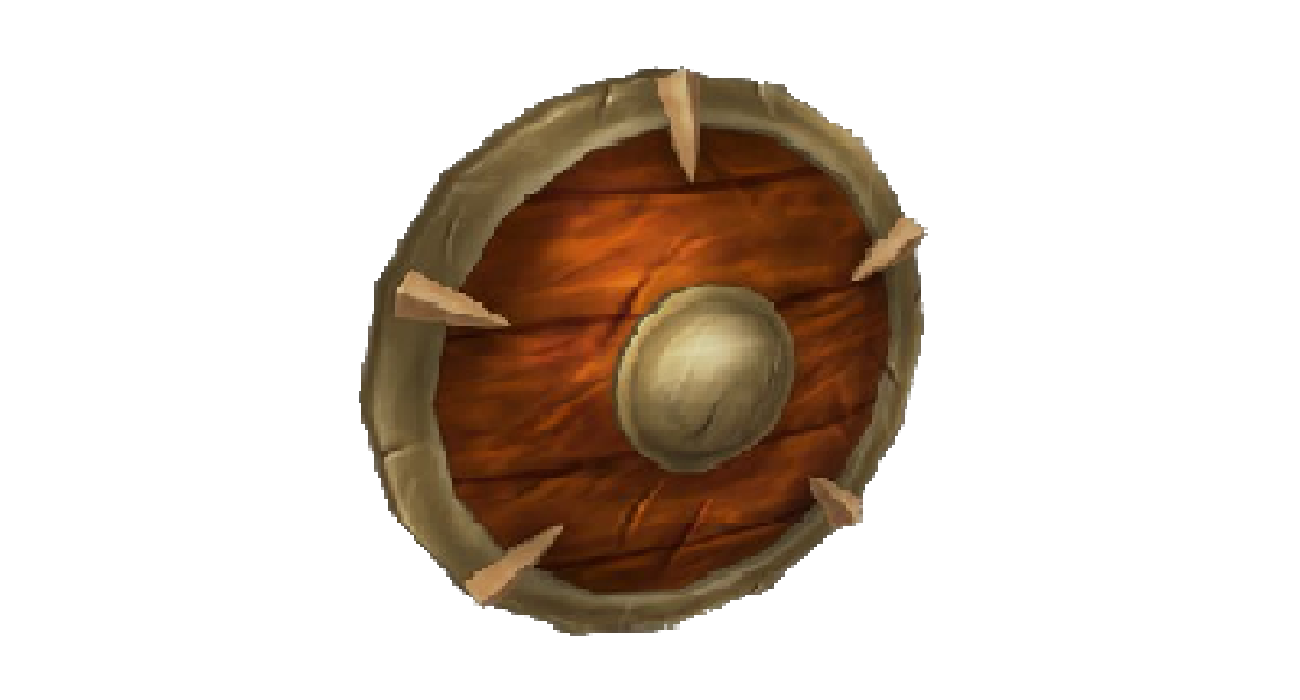
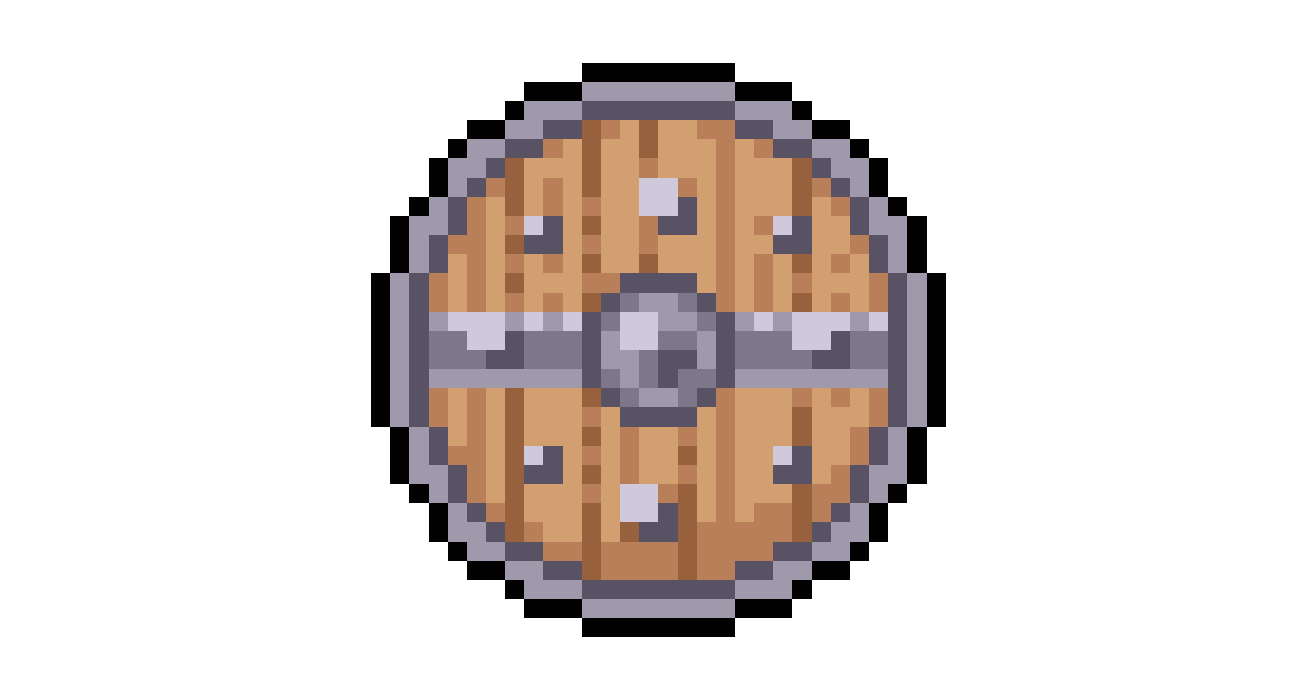
add images for item types

Changed region(s): [[0.2769, 0.09, 0.7385, 0.93]]

diff --git a/src/render.js b/src/render.js
@@ -38,6 +38,7 @@ context.fillRect(0, 2020, width, height);
 // create card
 
 async function create(params) {
+	const name = `${s(params.type)}`.toCap();
 	const desc = `${s(params.type)} ${s(params.size_type)}`.toCap();
 
 	await image("background", [0, 0], [width, height]);
@@ -45,7 +46,7 @@ async function create(params) {
 	context.fillRect(0, 2020, width, height);
 
 	// draw card
-	text(params.name || desc, [100, 200], 70, "start", "#000", "bold");
+	text(params.name || name, [100, 200], 70, "start", "#000", "bold");
 	text(desc, [100, 300], 50, "start", "#555", "italic");
 
 	text(s("size"), [1220, 150], 40, "center", "#555", "bold");
@@ -55,9 +56,10 @@ async function create(params) {
 	const dimension = +(Math.round(params.dimension + "e+1") + "e-1");
 	text(dimension + " D", [1230, 270], 40, "start");
 
-	context.fillStyle = "#777";
+	//todo: set a color by parameter
+	context.fillStyle = "#777"
 	context.fillRect(100, 375, 1300, 700);
-	await image("shield", [100, 375], [1300, 700]);
+	await image(params.type, [100, 375], [1300, 700]);
 	text(`#${params.code}`, [110, 425], 40, "start");
 	text(s(params.material).toCap(), [1375, 1050], 40, "end", "#000", "bold");
 

diff --git a/test.js b/test.js
@@ -23,7 +23,7 @@ const testCases = [
 	},
 	{
 		class: "weapon",
-		material: "platinum",
+		material: "ferro_iron",
 		type: "blade",
 		dimension: "3",
 		thickness: "2",
